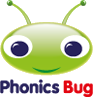
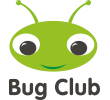
Update for Purple Mash Parent Portal

diff --git a/loginPlusParent.rb b/loginPlusParent.rb
@@ -1,0 +1,70 @@
+require 'thor'
+require 'prawn'
+require 'prawn/labels'
+
+class Login <
+	Struct.new(:name, :login, :password, :parent_code, :group)
+  def initialize (name, login, pass, parent_code, group)
+    self.name = name
+    self.login = login
+		self.password = pass
+		self.parent_code = parent_code
+		self.group = group
+  end
+end
+
+# load types (maybe move to options)
+Prawn::Labels.types = './types.yaml'
+
+class MyCLI < Thor
+  class_option :label_type, :default => 'YourPrice21'
+
+  desc "mash SOURCE DEST", "Make labels from SOURCE, to DEST"
+  long_desc "Read a Purple Mash tab delimited Excel export from SOURCE, labelify into DEST."
+  def mash(src, dest)
+    logins = Array.new
+    fsrc = File.open("#{src}", "r:UTF-8", &:read) # Prawn may need this
+    fsrc.each_line { |line|
+    	fields = line.split("\t")
+    	login = Login.new(fields[0], fields[1], fields[2], fields[4], fields[5])
+      logins.push(login)
+    }
+		logins.sort_by! { |i| [-i.group, i.name] }
+
+    Prawn::Labels.generate("#{dest}", logins, type: options[:label_type]) do |pdf, login|
+			# Registering a DFONT package
+			font_path = "./PanicSans.dfont"
+			pdf.font_families.update(
+				"Panic Sans" => {
+				 :normal => { :file => font_path, :font => "PanicSans" },
+				 :italic => { :file => font_path, :font => "PanicSans-Italic" },
+				 :bold => { :file => font_path, :font => "PanicSans-Bold" },
+				 :bold_italic => { :file => font_path, :font => "PanicSans-BoldItalic" }
+				}
+			)
+			pdf.indent(8) do
+				pdf.move_down 8
+				pdf.font "Helvetica"
+				pdf.text_box "#{login.name}", at: [0, pdf.cursor + 2], size: 18, height: 20, overflow: :shrink_to_fit
+
+				pdf.move_down 15
+				pdf.font_size 10
+				pdf.text login.group
+				pdf.font "Panic Sans"
+				pdf.text "norton-pri.n-yorks.sch.uk", color: '0000FF'
+				pdf.font "Helvetica"
+				pdf.text 'Purple Mash account:'
+
+				pdf.move_down 5
+				pdf.font "Panic Sans"
+				pdf.text "User: #{login.login}"
+				pdf.text "Pass: #{login.password}"
+				pdf.text "Parent code: #{login.parent_code}"
+
+			end
+			#pdf.stroke_bounds
+    end
+	end
+end
+
+MyCLI.start(ARGV)

diff --git a/phonicsbug.rb b/phonicsbug.rb
@@ -59,7 +59,7 @@ Prawn::Labels.generate("#{fn}_#{__FILE__.split('.')[0]}.pdf", logins, type: labe
             pdf.text "<b>Password :</b> <font name='Courier'>#{login.password}</font>", size: 10, inline_format: true
             pdf.move_down 5
             pdf.font "Helvetica"
-            pdf.text '<i>Log in to Phonics Bug at:</i>', size: 9, inline_format: true
+            pdf.text '<i>Log in to Bug Club at:</i>', size: 9, inline_format: true
             pdf.text url3, size: 9
             pdf.text 'The school code is: <b>jhjx</b>', size: 9, inline_format: true
         end
